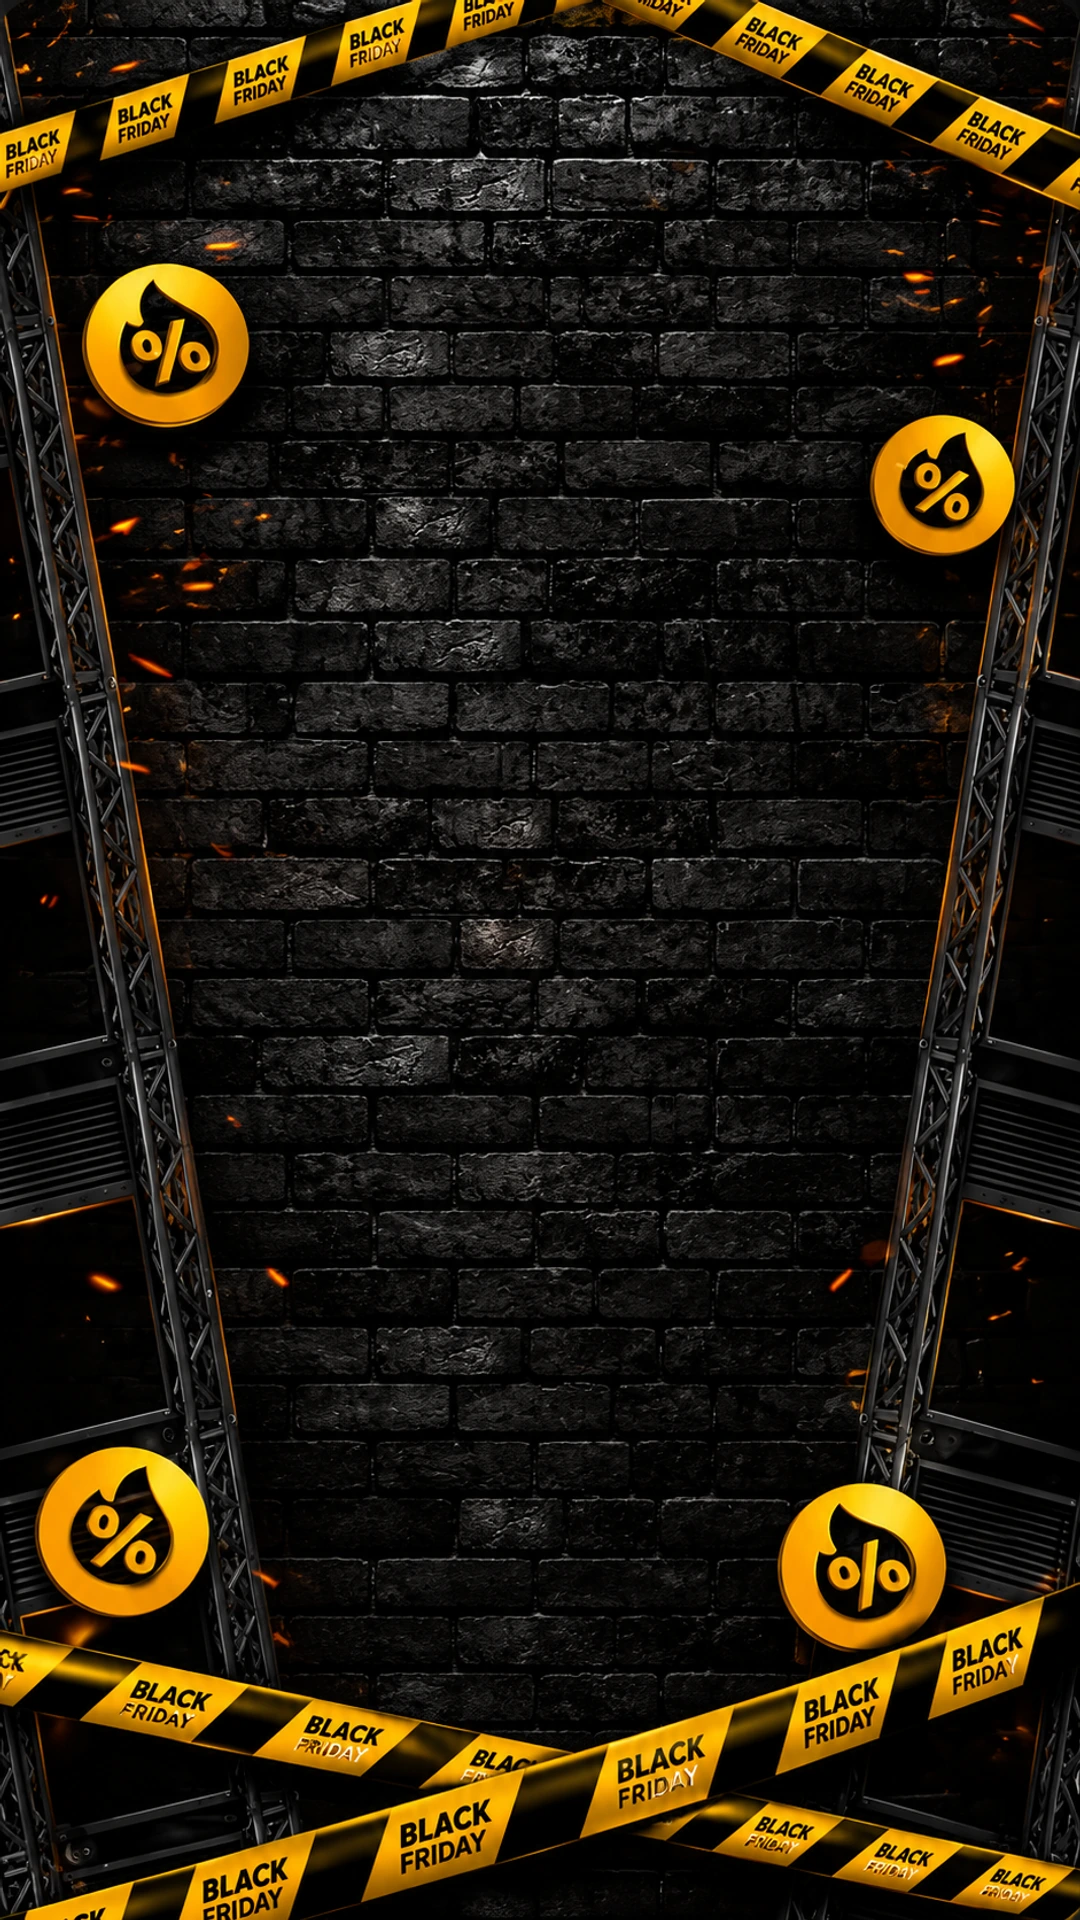
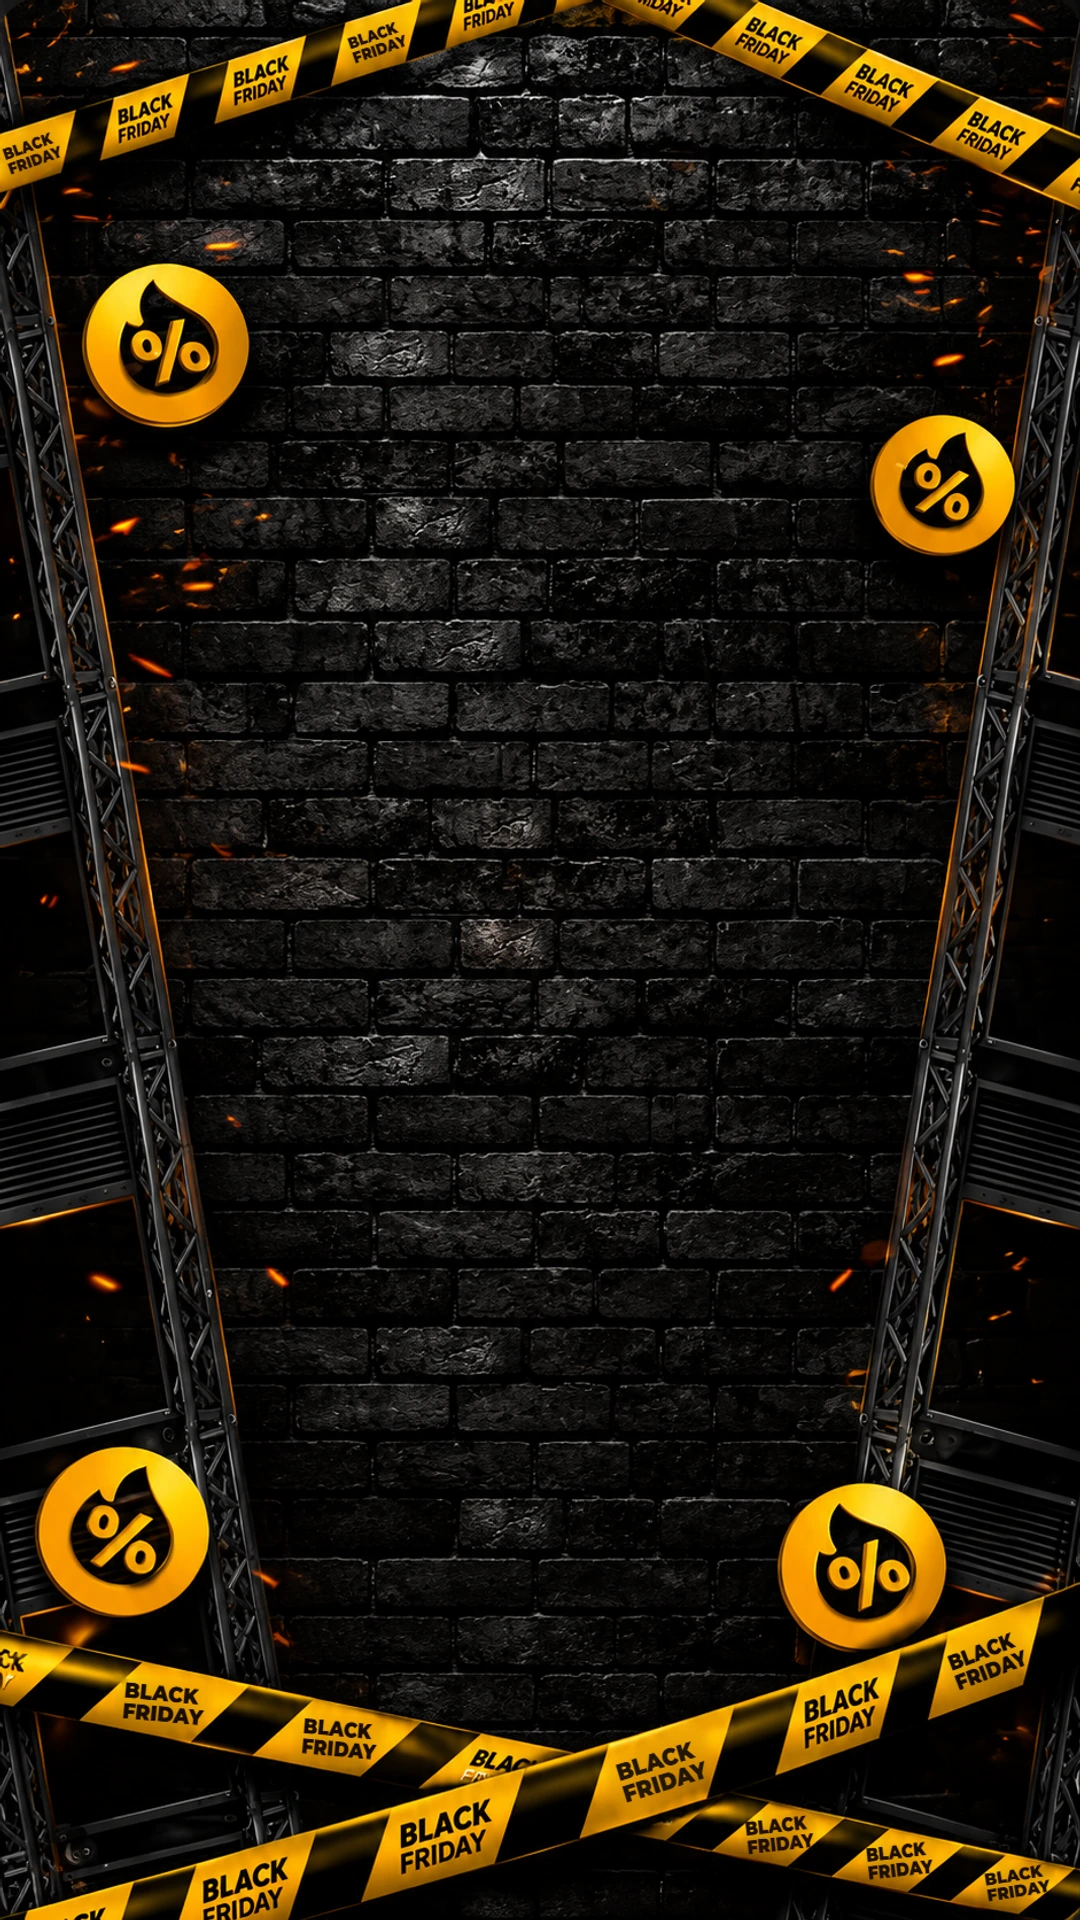
fix(studio): fundo Black Friday (fita e selos) com o texto BLACK FRIDAY das fitas corrigido, sem mudar as fitas (F-357)

diff --git a/docs/engineering/FINDINGS_LEDGER.md b/docs/engineering/FINDINGS_LEDGER.md
@@ -4161,3 +4161,9 @@ Cadeia auditada: `ScreenDetails` (Lista de Reprodução) e `PlaylistItemsDialog`
   - Aparecem no palco de mercado e no "trocar fundo" de toda criação de vídeo.
 - Testado no navegador com produtos e preços reais (Arroz Camil, Heineken) e logos de Black Friday.
 - Meta de logos: `META_DE_LOGOS_POR_PASTA` passou de 8 para 15.
+- **Correção do texto das fitas (23/11/2026, pedido do dono: "corrija os nomes Black Friday das faixas, mas não mude nada nas faixas"):**
+  - No fundo "Black Friday (fita e selos %)", 9 plaquinhas tinham "BLACK FRIDAY" quebrado ("PRIDAY", letras brancas pela metade).
+  - `scripts/studio/corrigir-texto-das-fitas.mjs`, com as plaquinhas indicadas em `fitas-black-friday.json`, faz o seguinte:
+    - as letras são o que a plaquinha amarela cerca; elas saem e o amarelo em volta preenche;
+    - "BLACK / FRIDAY" é escrito de novo em Montserrat 900, na cor e na inclinação da fita.
+  - Fitas, listras e bordas ficam iguais: 0 pontos mudados fora das fitas. O original do dono fica em `../fundos-do-dono-originais`.
